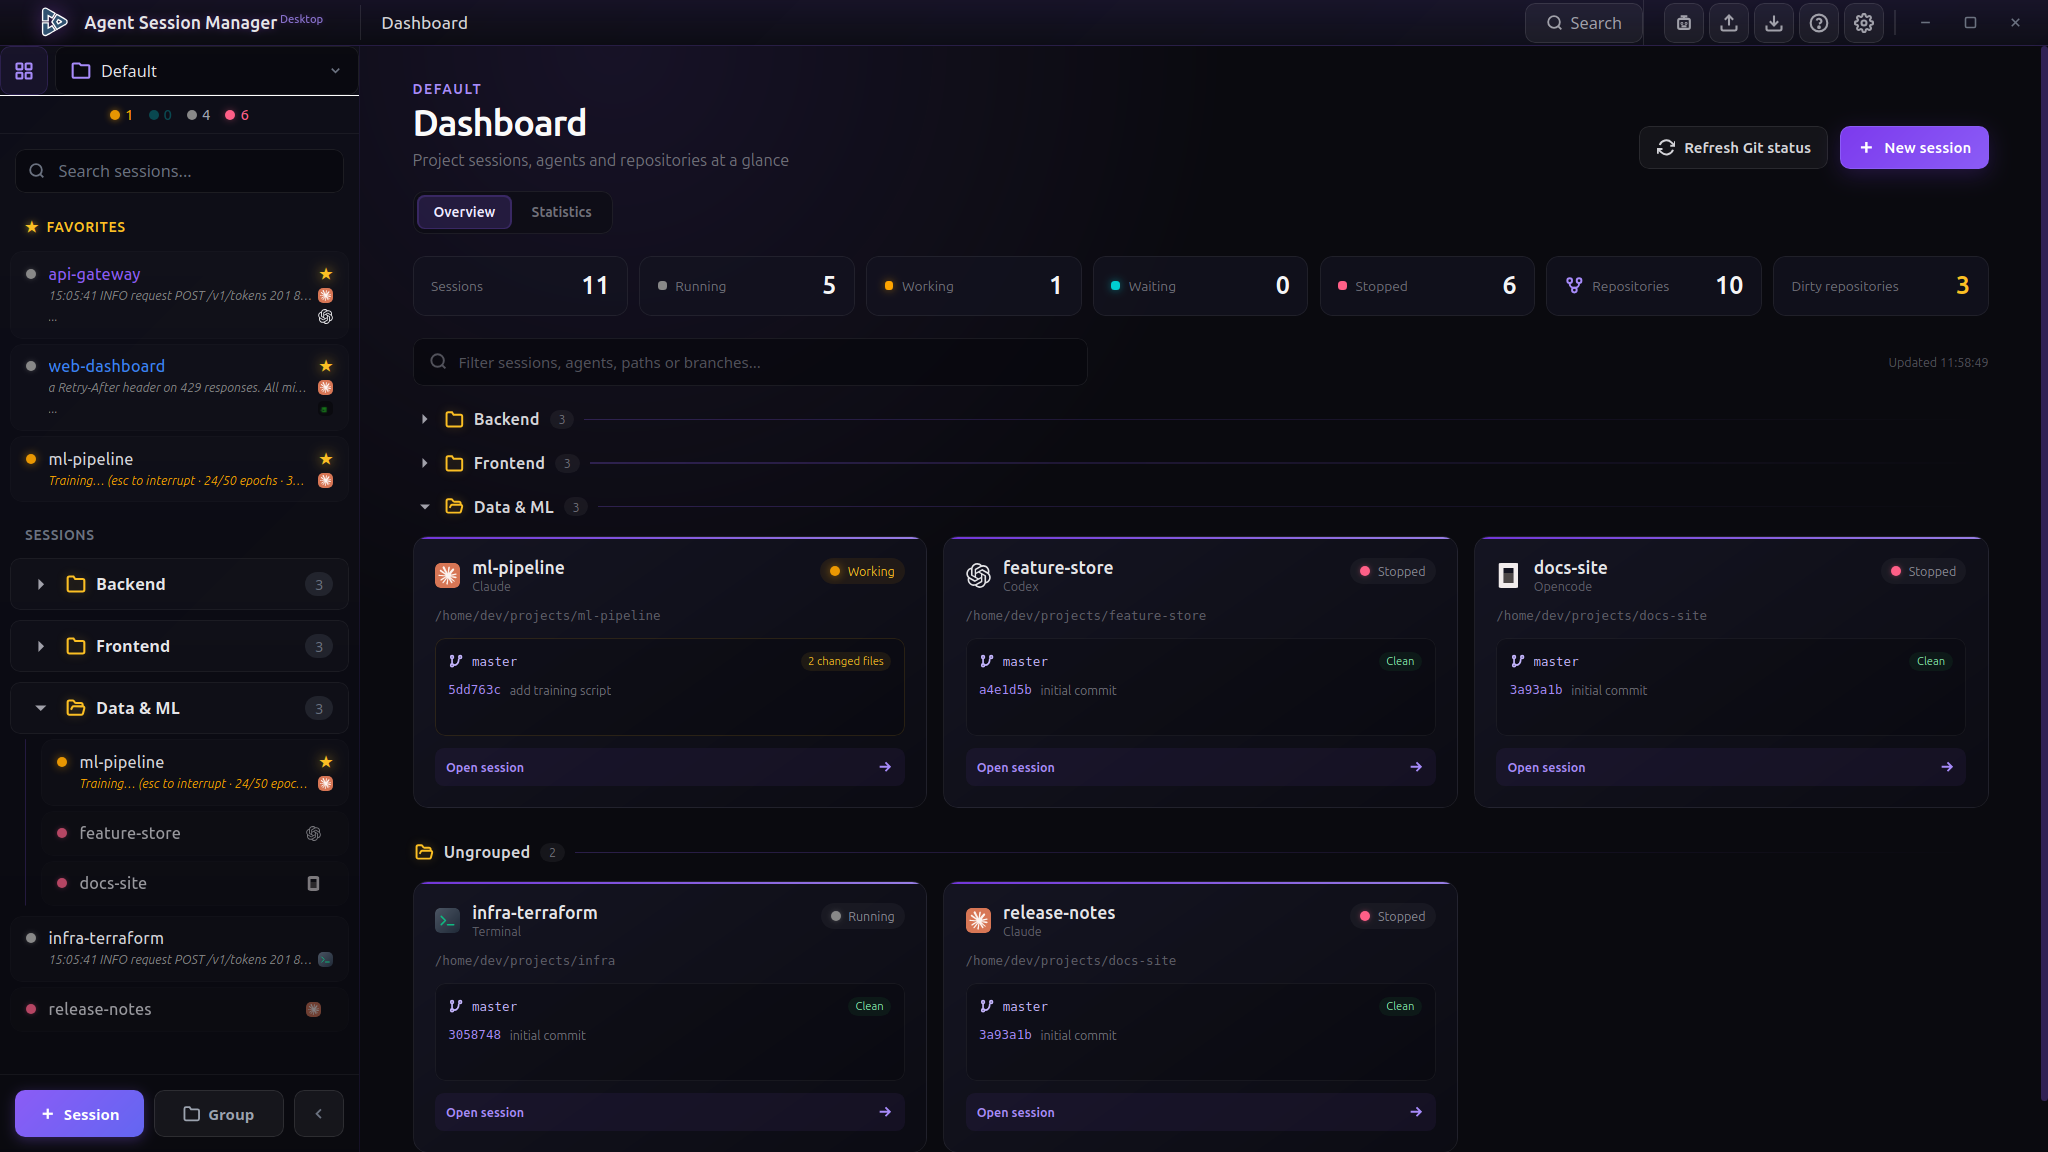
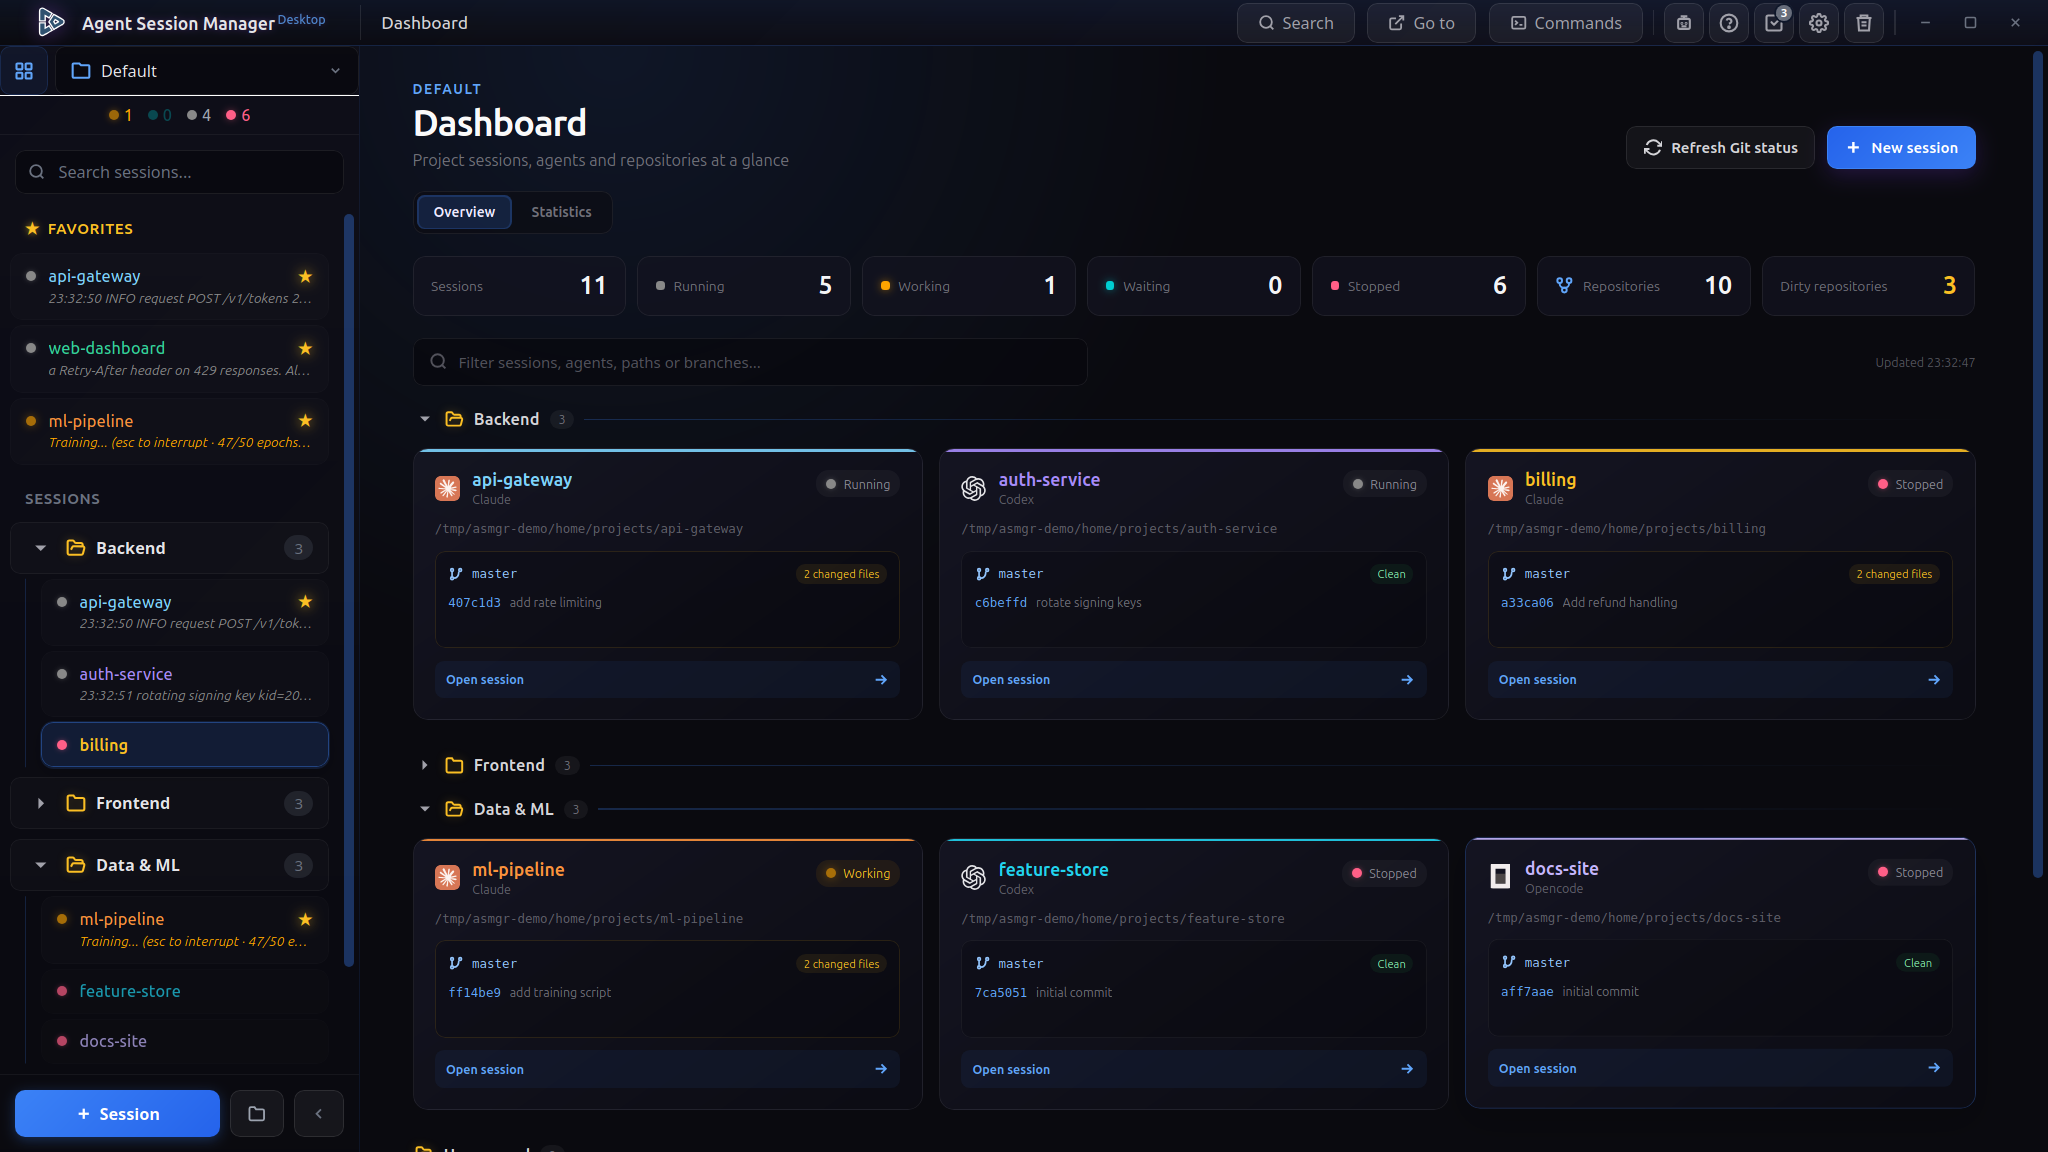
docs: explain how to use the app, not just what it has
The README listed the features and stopped: it went from installing straight to
building from source, with nothing in between about actually using the thing.

Adds a walkthrough from the first session through tabs, groups and notifications
to reading a diff; a table of all 27 default shortcuts, generated from
shortcuts.ts rather than memory; where the app keeps its data and what leaves the
machine (nothing, unless asked); and answers to the questions that actually come
up — closing the app while an agent works, recovering a deleted session, an agent
that shows as idle.

New screenshots: the dashboard, refreshed now the session colour no longer floods
each card, and the side-by-side diff. Both from the demo environment in
scripts/demo-screenshots.sh, so nothing real is in them.

diff --git a/README.md b/README.md
@@ -198,6 +198,8 @@ left off.
 
 <img src="docs/screenshot-dashboard.png" alt="The project dashboard: grouped sessions with Git status and agent usage" width="900">
 
+<img src="docs/screenshot-diff.png" alt="A session's changes side by side, with the file tree beside them" width="900">
+
 ## Install
 
 Grab the latest build for your platform from the
@@ -239,6 +241,138 @@ There is also a `.tar.gz` if you would rather not install anything.
 >   The app can install it for you with `winget`, or `winget install psmux`.
 
 To build from source instead, see [Build](#build) below.
+
+## Getting started
+
+**Your first session.** Press `Ctrl+Shift+N`, pick the agent you want and the
+directory it should work in, and give it a name. The session starts in its own
+multiplexer window and appears in the sidebar; press `Enter` to attach and you
+are looking at a live terminal. Type in it exactly as you would anywhere else.
+
+Close the window whenever you like. The agent is not running *inside* the app —
+it lives in tmux (or psmux) — so it keeps working while the app is shut, and
+reattaches where it left off next time.
+
+**Tabs.** A session can hold several agents and terminals side by side, each its
+own tab. `Ctrl+T` opens the full dialog — which agent, what arguments, which
+directory — and `Ctrl+Shift+T` skips all of it and gives you a shell, asking
+only for a name. Move between tabs with `Ctrl+PageUp` / `Ctrl+PageDown`.
+
+**Keeping track of many.** Once you have more than a handful:
+
+- Group related sessions into projects with `Ctrl+Shift+G`, and star the ones
+  you return to most (`Ctrl+Shift+8`); starred sessions get their own group at
+  the top and answer to `Ctrl+Shift+1`…`7`.
+- Build a jump list with `Alt+J` for the tabs you keep coming back to, then
+  `Ctrl+J` and a digit to land on one.
+- Type `/` to filter the sidebar, or `Ctrl+K` to search everything at once —
+  sessions, projects, tabs and actions.
+
+**Getting told when something needs you.** The ⏳ count in the header is every
+agent currently waiting on an answer; click it to jump to one, or answer *yes /
+no / Enter / Esc* from the dropdown without leaving the tab you are in. In
+**Settings → Notifications** you can add a desktop notification, a sound, and an
+ntfy topic so your phone is pinged too — set the topic URL to something like
+`https://ntfy.sh/my-topic` and install the ntfy app on your phone. Everything
+here is off until you turn it on.
+
+**Reading what it did.** With a session attached, the view bar switches between
+the terminal, the session's Git diff, its files, notes and tasks. In the diff you
+can revert one file or one hunk, step through the changes with `Ctrl+F7`, or jump
+from a line straight into the editor. `Ctrl+Shift+Y` opens the repository's
+commit history when you want to look further back than the working tree.
+
+## Keyboard shortcuts
+
+Every one of these is editable in **Settings → Shortcuts**, and the ones you
+never use can be switched off. The in-app help (`Ctrl+Shift+H`) is generated from
+the same list, so it always shows what your keys actually do — this table is the
+defaults.
+
+| | |
+|---|---|
+| `Ctrl+Shift+↑` / `Alt+↑` | Previous session (works in the terminal) |
+| `Ctrl+Shift+↓` / `Alt+↓` | Next session (works in the terminal) |
+| `Ctrl+Shift+K` / `Ctrl+Shift+J` | Move the session up / down the sidebar |
+| `Enter` | Attach to the selected session |
+| `Ctrl+PageUp` / `Ctrl+PageDown` | Previous / next tab |
+| `Ctrl+T` | New tab |
+| `Ctrl+Shift+T` | New terminal tab, name only |
+| `Ctrl+Shift+N` | New session |
+| `Ctrl+Shift+G` | New group |
+| `Ctrl+Shift+S` / `Ctrl+Shift+X` | Start / stop the session |
+| `Ctrl+Shift+D` | Delete the session |
+| `Ctrl+Shift+8` | Star the session |
+| `Ctrl+Shift+1`…`7` | Jump to a starred session |
+| `Ctrl+J` / `Alt+J` | Quick jump list / add this tab to it |
+| `Ctrl+K` | Command palette |
+| `Ctrl+P` | Saved commands |
+| `Ctrl+Shift+F` | Search every session's history |
+| `Ctrl+Shift+L` | Search this terminal's scrollback |
+| `Ctrl+Shift+O` | Find a file by name or content (in the file browser) |
+| `/` | Filter the session list |
+| `Ctrl+F7` / `Ctrl+Shift+F7` | Next / previous change in the diff |
+| `Ctrl+Shift+Y` | Commit history |
+| `Ctrl` + scroll / `Ctrl+0` | Resize the terminal text / reset it |
+| `Ctrl+Shift+H` | Help |
+| `Ctrl+Shift+U` | Check for updates |
+| `Ctrl+Shift+I` | Import sessions |
+| `Esc` | Close a dialog |
+
+`Esc`, `Enter`, `/`, `Ctrl` + scroll and the starred-session slots stay fixed:
+their meaning comes from where you are rather than from a binding. `Ctrl+Shift+O`
+belongs to the file browser itself and is fixed for the same reason.
+
+## Where things live
+
+Everything the app keeps is under one directory — `~/.config/agent-session-manager-desktop`
+on Linux, the equivalent per-user config directory on macOS and Windows:
+
+| | |
+|---|---|
+| `sessions.json` | your sessions, groups, settings and recycle bin |
+| `commands.json` | the saved command library |
+| `backups/` | automatic snapshots of the above, and of task files |
+| `activity-stats.json` | locally-observed agent activity |
+| `asmgr-desktop.log` | the run log, also readable from Settings |
+
+Tasks are the exception: they live with the code, in `.taskmaster/tasks.json`
+inside each working directory, because that is where Task Master keeps them and
+the two have to agree.
+
+**What leaves your machine.** Nothing, unless you ask for it. The app talks to
+GitHub to check for its own updates, to an ntfy server if you configure mobile
+push, and to `npx` the first time you use a Task Master AI action. Your sessions,
+their output and your files stay local — there is no telemetry.
+
+## Questions
+
+**Can I close the app while an agent is working?** Yes — that is the point. The
+agents run in tmux/psmux, not in the app, so closing the window leaves them
+working. Reopen and reattach.
+
+**What happens if the app crashes?** The same thing: the sessions are untouched.
+Start it again and they are all there.
+
+**I deleted a session by accident.** Open the recovery centre (the recycle bin
+icon). Deleted sessions and tabs sit in it for as long as you choose,
+and your settings are snapshotted as they change — densely for the last hour,
+then thinning out over months — so a mistake noticed tomorrow is still undoable.
+
+**An agent is running but shows as idle.** Activity is read from what the pane
+prints, so an unusual prompt can fool it. Settings has an update button for the
+detection patterns, which is quicker than waiting for a release of the app.
+
+**The terminal feels sluggish.** Try a different renderer in **Settings →
+Terminal** — canvas is the default, but DOM and WebGL are there and switch live.
+
+**Can I use it over SSH or on a headless box?** Not this one — it is a desktop
+app. The [TUI version](https://github.com/izll/agent-session-manager) runs in a
+terminal and does the same job; it keeps its own session list, but both drive
+tmux, so the agents themselves are reachable either way.
+
+**Does it work with an agent that isn't in the list?** Yes. Choose *Custom* and
+give it the command to run; it gets a tab and a status line like the rest.
 
 ## Requirements
 
